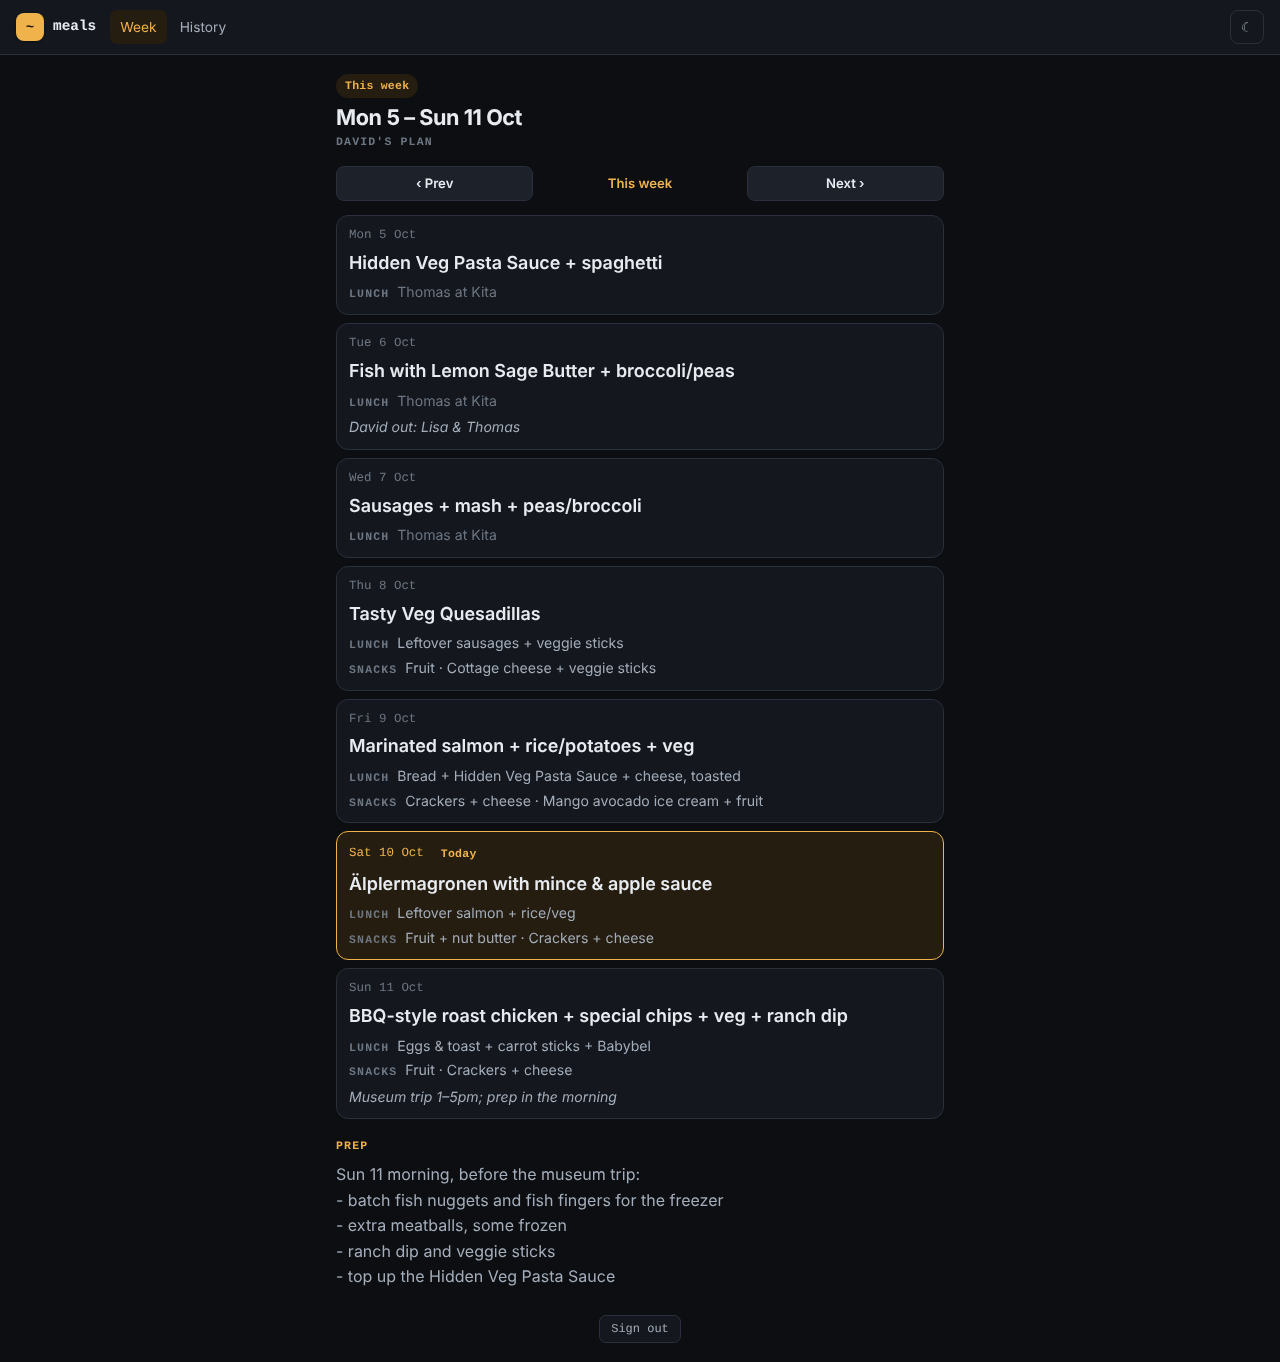
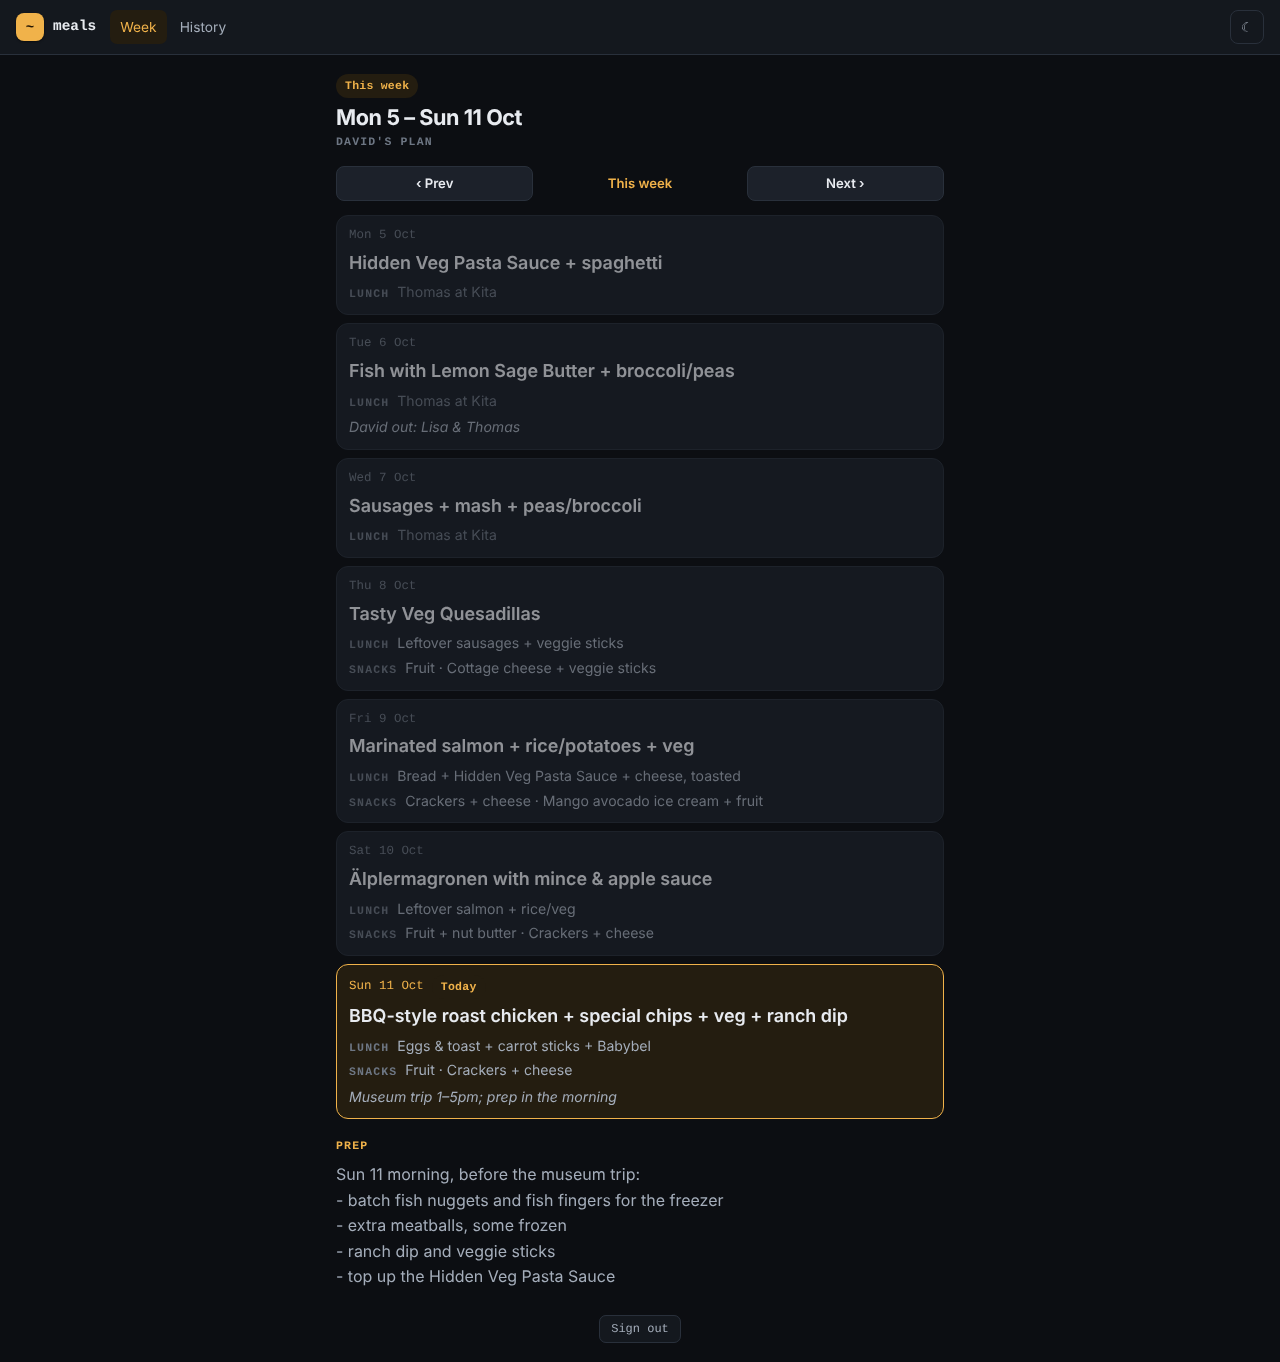
Walkthrough: refresh screenshots, add dimmed days and offline
Screenshots retaken on 0.4.1 (past days dimmed, one Today pill). Text
covers the dimmed days and a new "No signal" section; signing out
clears the saved copy. Version 0.4.2.

Claude-Session: https://claude.ai/code/session_01LJybd3VoLsdRfRwD4wqbF6

diff --git a/WALKTHROUGH.md b/WALKTHROUGH.md
@@ -5,7 +5,7 @@ you see at **[meals.winterbottom.xyz](https://meals.winterbottom.xyz)**. For
 setup and internals, see the [README](README.md).
 
 The screenshots use the two example weeks the app seeds into an empty
-database, taken on Saturday 10 October 2026.
+database, taken on Sunday 11 October 2026.
 
 ## 1. Plans go in through Claude
 
@@ -44,7 +44,7 @@ It opens full screen on the current week.
   weeks"). Under the heading it says whose plan it is: David's or Lisa's.
 - Each day's dinner is the big line. Lunch and snacks sit underneath, and
   Mon–Wed Kita lunches read "Thomas at Kita".
-- **Today** is highlighted.
+- **Today** is highlighted, and the days already gone are dimmed.
 - Notes for the day (who's out, trips) are in italics. The week's **Prep** list
   is below Sunday.
 - On a Sunday, `/` still shows the week that's ending, so the prep list is
@@ -86,11 +86,20 @@ column in the middle of the screen.
 
 ![History in a desktop browser](docs/screenshots/desktop-history.png)
 
-## 7. Signing out
+## 7. No signal
+
+Every week you open is saved on the phone, and so are this week and History.
+With no signal, or none within about 4 seconds, you get the saved copy under
+an "Offline" banner, and today is still marked correctly. A week you've never
+opened shows a "You're offline" page. Once you're back online, it loads the
+latest plan again.
+
+## 8. Signing out
 
 **Sign out** is at the bottom of every page. To shut someone out, remove
 their address from the allow-list in docker-infra. That takes effect on
-their next page load, even on a phone that is already signed in.
+their next page load, even on a phone that is already signed in. Signing
+out also deletes the copy saved on the phone.
 
 ## Updating the screenshots
 
